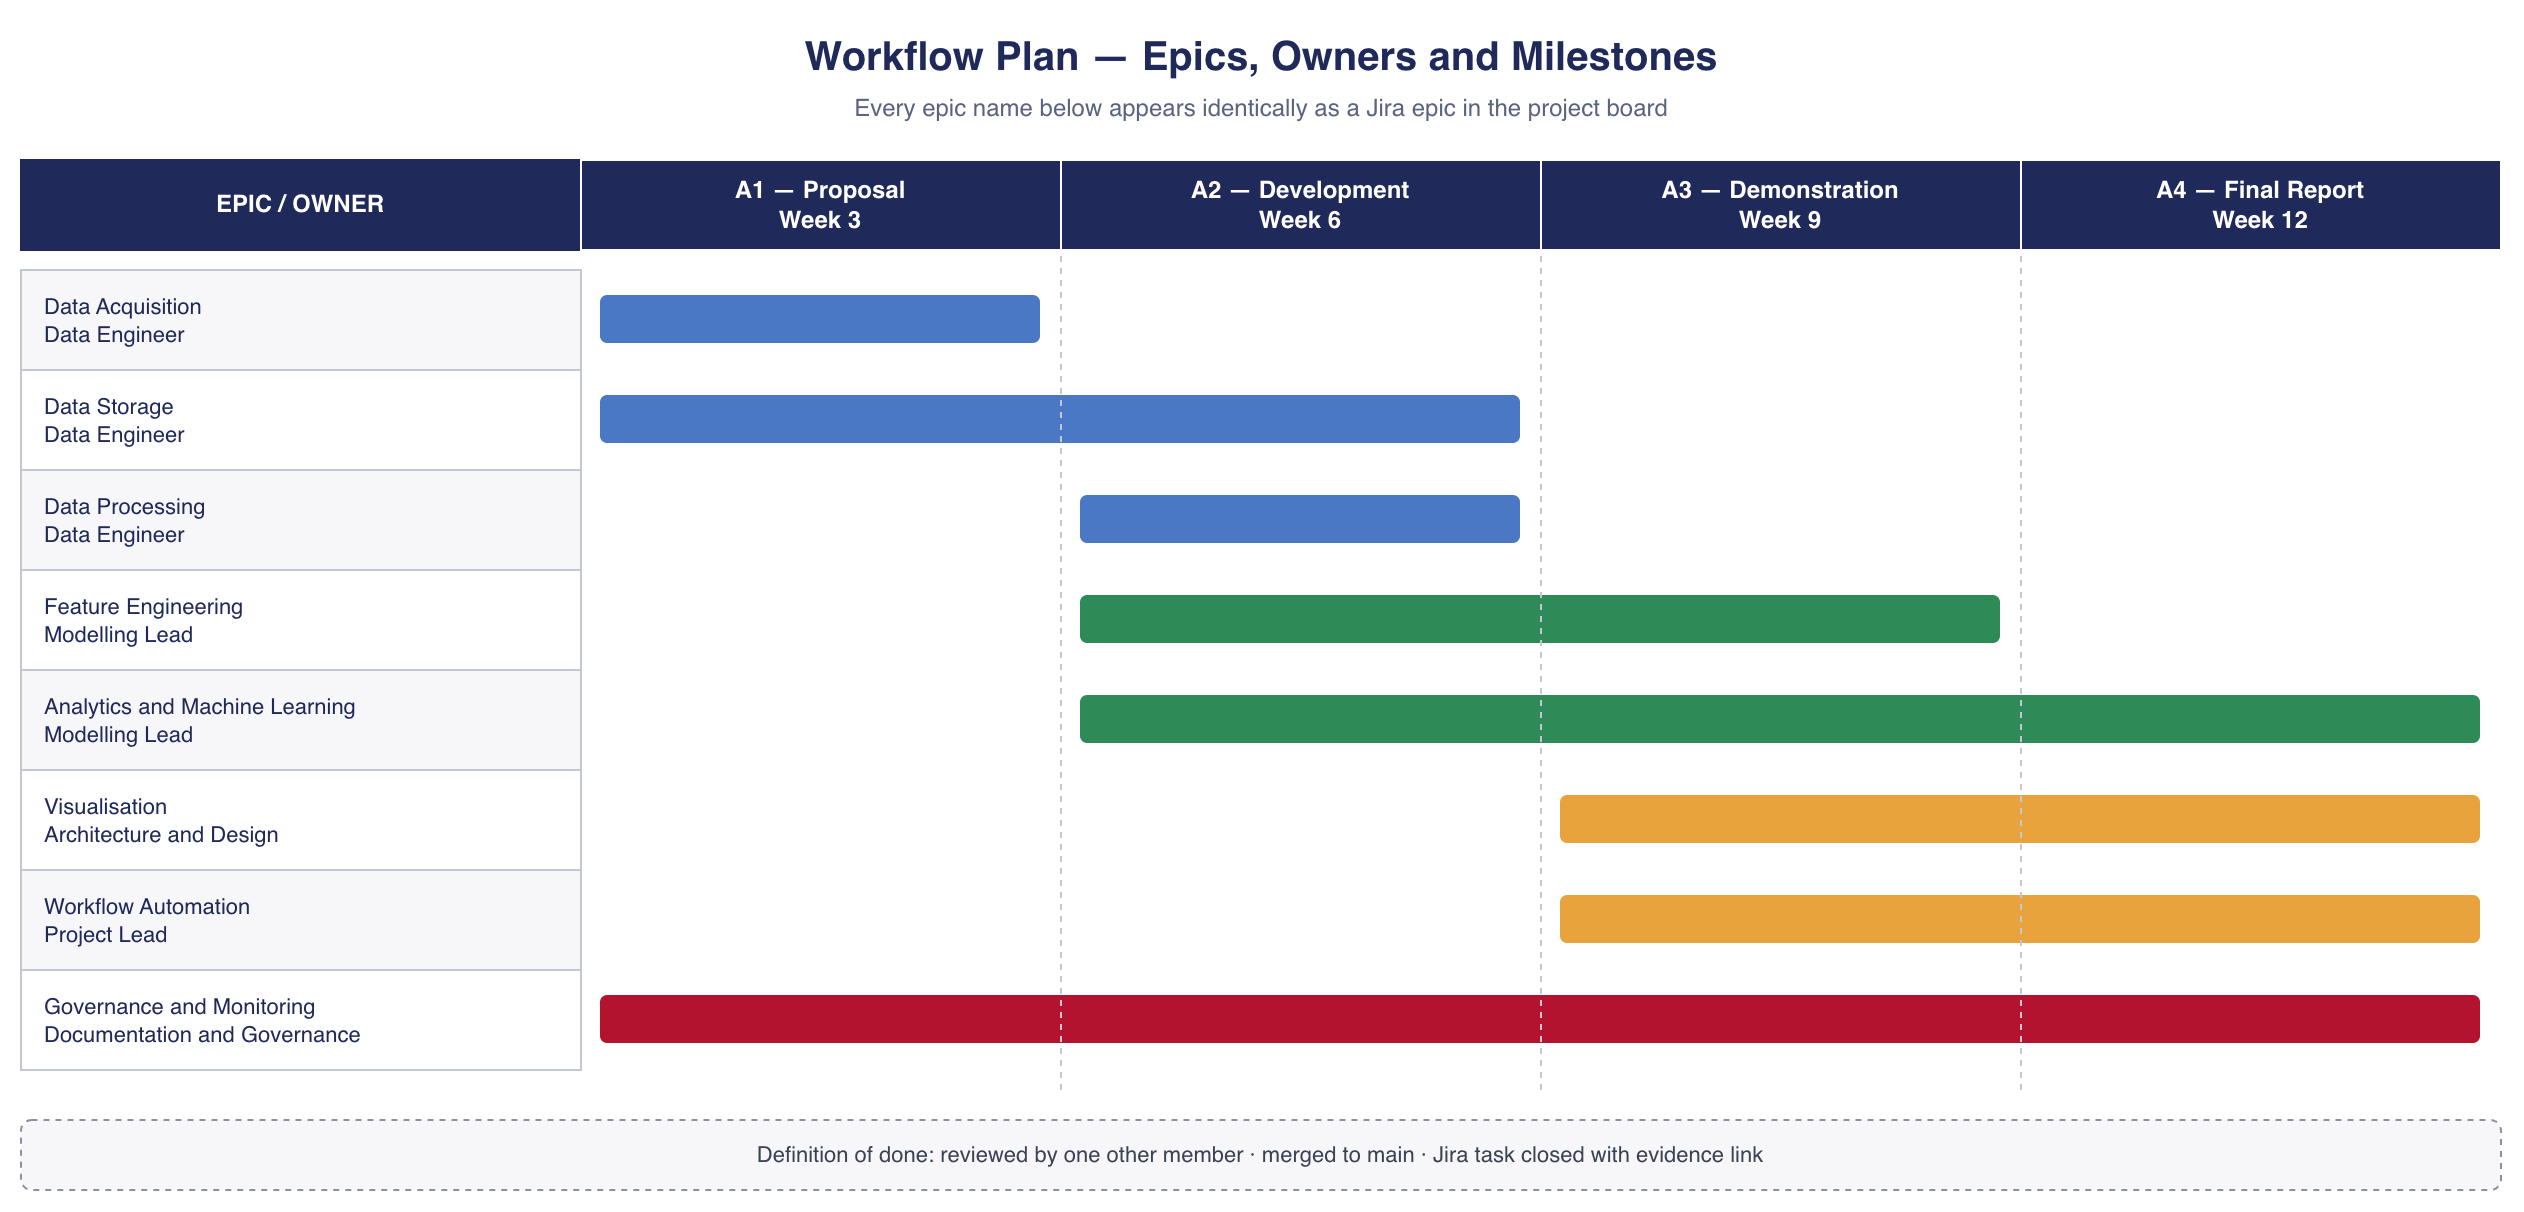
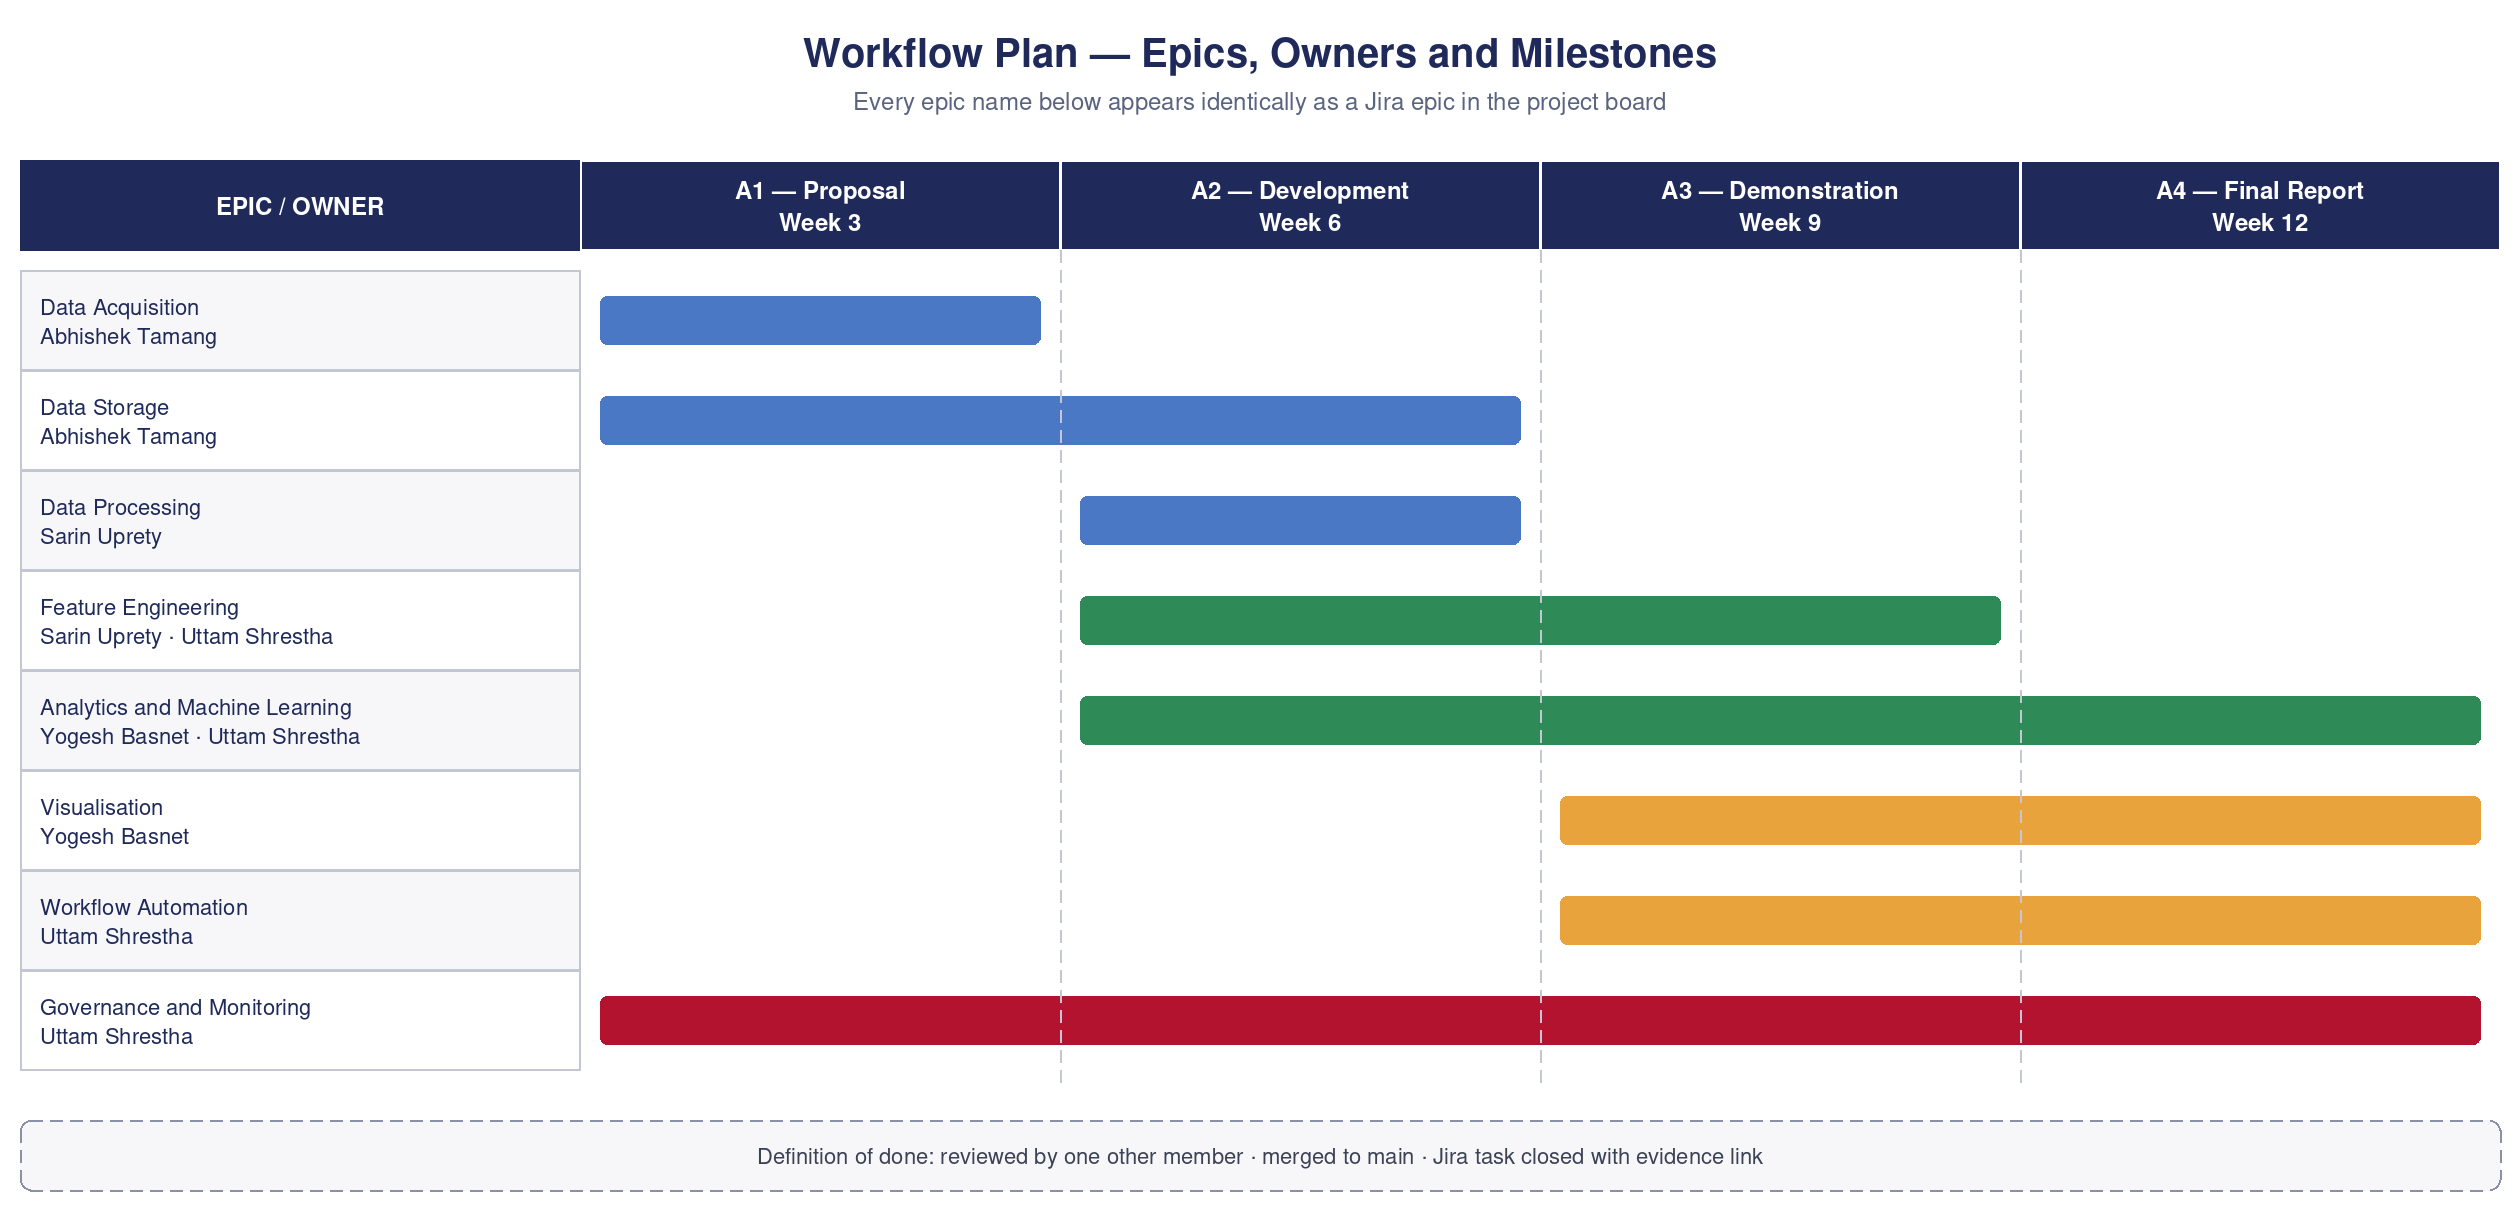
Align epic ownership across diagram, docs and Jira
Workflow plan now names members rather than role titles, removing 'Architecture and Design' and 'Documentation and Governance', which exist nowhere in the repo.

Project Lead added as second member on Feature Engineering and Analytics and Machine Learning, per risk P4. Epic tables gain accountable owner and second member columns. SCRUM-29 and SCRUM-30 recorded against Sprint 2; board now 18 tasks. Correct 'five group members' to four.

diff --git a/Task_Allocation/task-allocation.md b/Task_Allocation/task-allocation.md
@@ -17,23 +17,30 @@ four is compliant.
 | Data and Feature Engineer | **Sarin Uprety** | `Sarin751` | Cleaning, schema reconciliation, feature engineering |
 | Modelling and Visualisation Lead | **Yogesh Basnet** | `viperx-ux` | Models, evaluation protocol, dashboard, diagrams |
 
-Each member owns two epics spanning the pipeline order, with diagram maintenance sitting with the
-Modelling and Visualisation Lead and documentation and governance with the Project Lead.
+Each member is accountable for two epics spanning the pipeline order, with diagram maintenance
+sitting with the Modelling and Visualisation Lead and documentation and governance with the
+Project Lead. The Project Lead additionally holds named tasks inside Feature Engineering and
+Analytics and Machine Learning as second member, without displacing their accountable owners.
 
 ## Epic ownership
 
 Two epics each, following the pipeline order.
 
-| Epic | Owner |
-|---|---|
-| Data Acquisition | Abhishek Tamang |
-| Data Storage | Abhishek Tamang |
-| Data Processing | Sarin Uprety |
-| Feature Engineering | Sarin Uprety |
-| Analytics and Machine Learning | Yogesh Basnet |
-| Visualisation | Yogesh Basnet |
-| Workflow Automation | Uttam Shrestha |
-| Governance and Monitoring | Uttam Shrestha |
+| Epic | Accountable owner | Second member |
+|---|---|---|
+| Data Acquisition | Abhishek Tamang | |
+| Data Storage | Abhishek Tamang | |
+| Data Processing | Sarin Uprety | |
+| Feature Engineering | Sarin Uprety | Uttam Shrestha |
+| Analytics and Machine Learning | Yogesh Basnet | Uttam Shrestha |
+| Visualisation | Yogesh Basnet | |
+| Workflow Automation | Uttam Shrestha | |
+| Governance and Monitoring | Uttam Shrestha | |
+
+The accountable owner sets direction and answers for the epic. A second member, where named,
+holds tasks within it — this implements risk P4's mitigation that every epic has a named owner
+and one other member familiar with it. Epic ownership is mirrored on the Jira board: each of the
+eight epics carries its accountable owner as the Jira assignee.
 
 These eight names are used identically in the Jira board and in
 [`../Workflow_Diagrams/02-workflow-plan.drawio`](../Workflow_Diagrams/02-workflow-plan.drawio).
@@ -80,9 +87,13 @@ Every member:
 
 ## Workload balance
 
-Each member owns two epics, one to two report sections, and an independent evidence trail in both
-GitHub and Jira. Where an epic spans multiple sprints the owner remains accountable but may
-delegate individual tasks — recorded in Jira, not agreed verbally.
+Each member is accountable for two epics, one to two report sections, and an independent evidence
+trail in both GitHub and Jira. Where an epic spans multiple sprints the owner remains accountable
+but may delegate individual tasks — recorded in Jira, not agreed verbally.
+
+The Project Lead carries two additional Sprint 2 tasks as second member: SCRUM-29 in Feature
+Engineering and SCRUM-30 in Analytics and Machine Learning. Both arose from the diagram review of
+16 August 2026 and neither reduces the work held by Sarin Uprety or Yogesh Basnet.
 
 ## Change history
 

diff --git a/planning/planning.md b/planning/planning.md
@@ -32,16 +32,19 @@ Week 6 = 24–30 Aug, Week 9 = 14–20 Sep and Week 12 = 5–11 Oct.
 
 ## Epic schedule
 
-| Epic | Start | Due | Primary owner |
-|---|---|---|---|
-| Data Acquisition | 20 Jul | 16 Aug | Abhishek Tamang |
-| Data Storage | 3 Aug | 23 Aug | Abhishek Tamang |
-| Data Processing | 10 Aug | 30 Aug | Sarin Uprety |
-| Feature Engineering | 17 Aug | 6 Sep | Sarin Uprety |
-| Analytics and Machine Learning | 24 Aug | 20 Sep | Yogesh Basnet |
-| Visualisation | 7 Sep | 23 Sep | Yogesh Basnet |
-| Workflow Automation | 7 Sep | 23 Sep | Uttam Shrestha |
-| Governance and Monitoring | 20 Jul | 23 Sep | Uttam Shrestha |
+| Epic | Start | Due | Accountable owner | Second member |
+|---|---|---|---|---|
+| Data Acquisition | 20 Jul | 16 Aug | Abhishek Tamang | |
+| Data Storage | 3 Aug | 23 Aug | Abhishek Tamang | |
+| Data Processing | 10 Aug | 30 Aug | Sarin Uprety | |
+| Feature Engineering | 17 Aug | 6 Sep | Sarin Uprety | Uttam Shrestha |
+| Analytics and Machine Learning | 24 Aug | 20 Sep | Yogesh Basnet | Uttam Shrestha |
+| Visualisation | 7 Sep | 23 Sep | Yogesh Basnet | |
+| Workflow Automation | 7 Sep | 23 Sep | Uttam Shrestha | |
+| Governance and Monitoring | 20 Jul | 23 Sep | Uttam Shrestha | |
+
+Accountable owners are set as the Jira assignee on each of the eight epics. Second members hold
+named tasks inside an epic without taking accountability for it.
 
 These eight names are used identically in the Jira board and in the Draw.io workflow diagram
 (`../Workflow_Diagrams/02-workflow-plan.drawio`).
@@ -68,6 +71,17 @@ These eight names are used identically in the Jira board and in the Draw.io work
 | 16 | Assemble and format A1 report | Governance and Monitoring | In Progress |
 
 *Statuses verified against the Jira board on 12 August 2026.*
+
+## Carried into Sprint 2
+
+Raised by the architecture diagram review of 16 August 2026 and allocated to Sprint 2.
+
+| Key | Task | Epic | Owner | Status |
+|---|---|---|---|---|
+| SCRUM-29 | Specify `bess_available` flag and BESS null handling in the feature table | Feature Engineering | Uttam Shrestha | To Do |
+| SCRUM-30 | Add persistence baseline and prediction interval reporting to the evaluation protocol | Analytics and Machine Learning | Uttam Shrestha | To Do |
+
+The board now holds 18 tasks, every one allocated to a sprint and assigned to a named member.
 
 ## Dependencies
 

diff --git a/Supporting_Documents/ethics-privacy-security.md b/Supporting_Documents/ethics-privacy-security.md
@@ -76,7 +76,7 @@ concern here is calibration and honest communication of uncertainty.
 |---|---|
 | Credentials | Never committed. `.gitignore` excludes `.env`, `*.pem`, `*.key` and credential files. AWS credentials, API keys and tokens are never pasted into reports, the repository, or AI tools. |
 | Exposure response | A committed credential is rotated immediately and reported to the team. Deleting the file in a later commit does not remove it from history. |
-| Repository access | Public repository containing no sensitive material. Write access limited to the five group members. `main` is protected; changes arrive by reviewed pull request. |
+| Repository access | Public repository containing no sensitive material. Write access limited to the four group members. `main` is protected; changes arrive by reviewed pull request. |
 | Lab evidence | AWS Academy screenshots are checked for visible account identifiers or session tokens before being committed. |
 | Data integrity | Raw data is immutable. All transformations are scripted, so any output can be regenerated and verified against source. |
 
